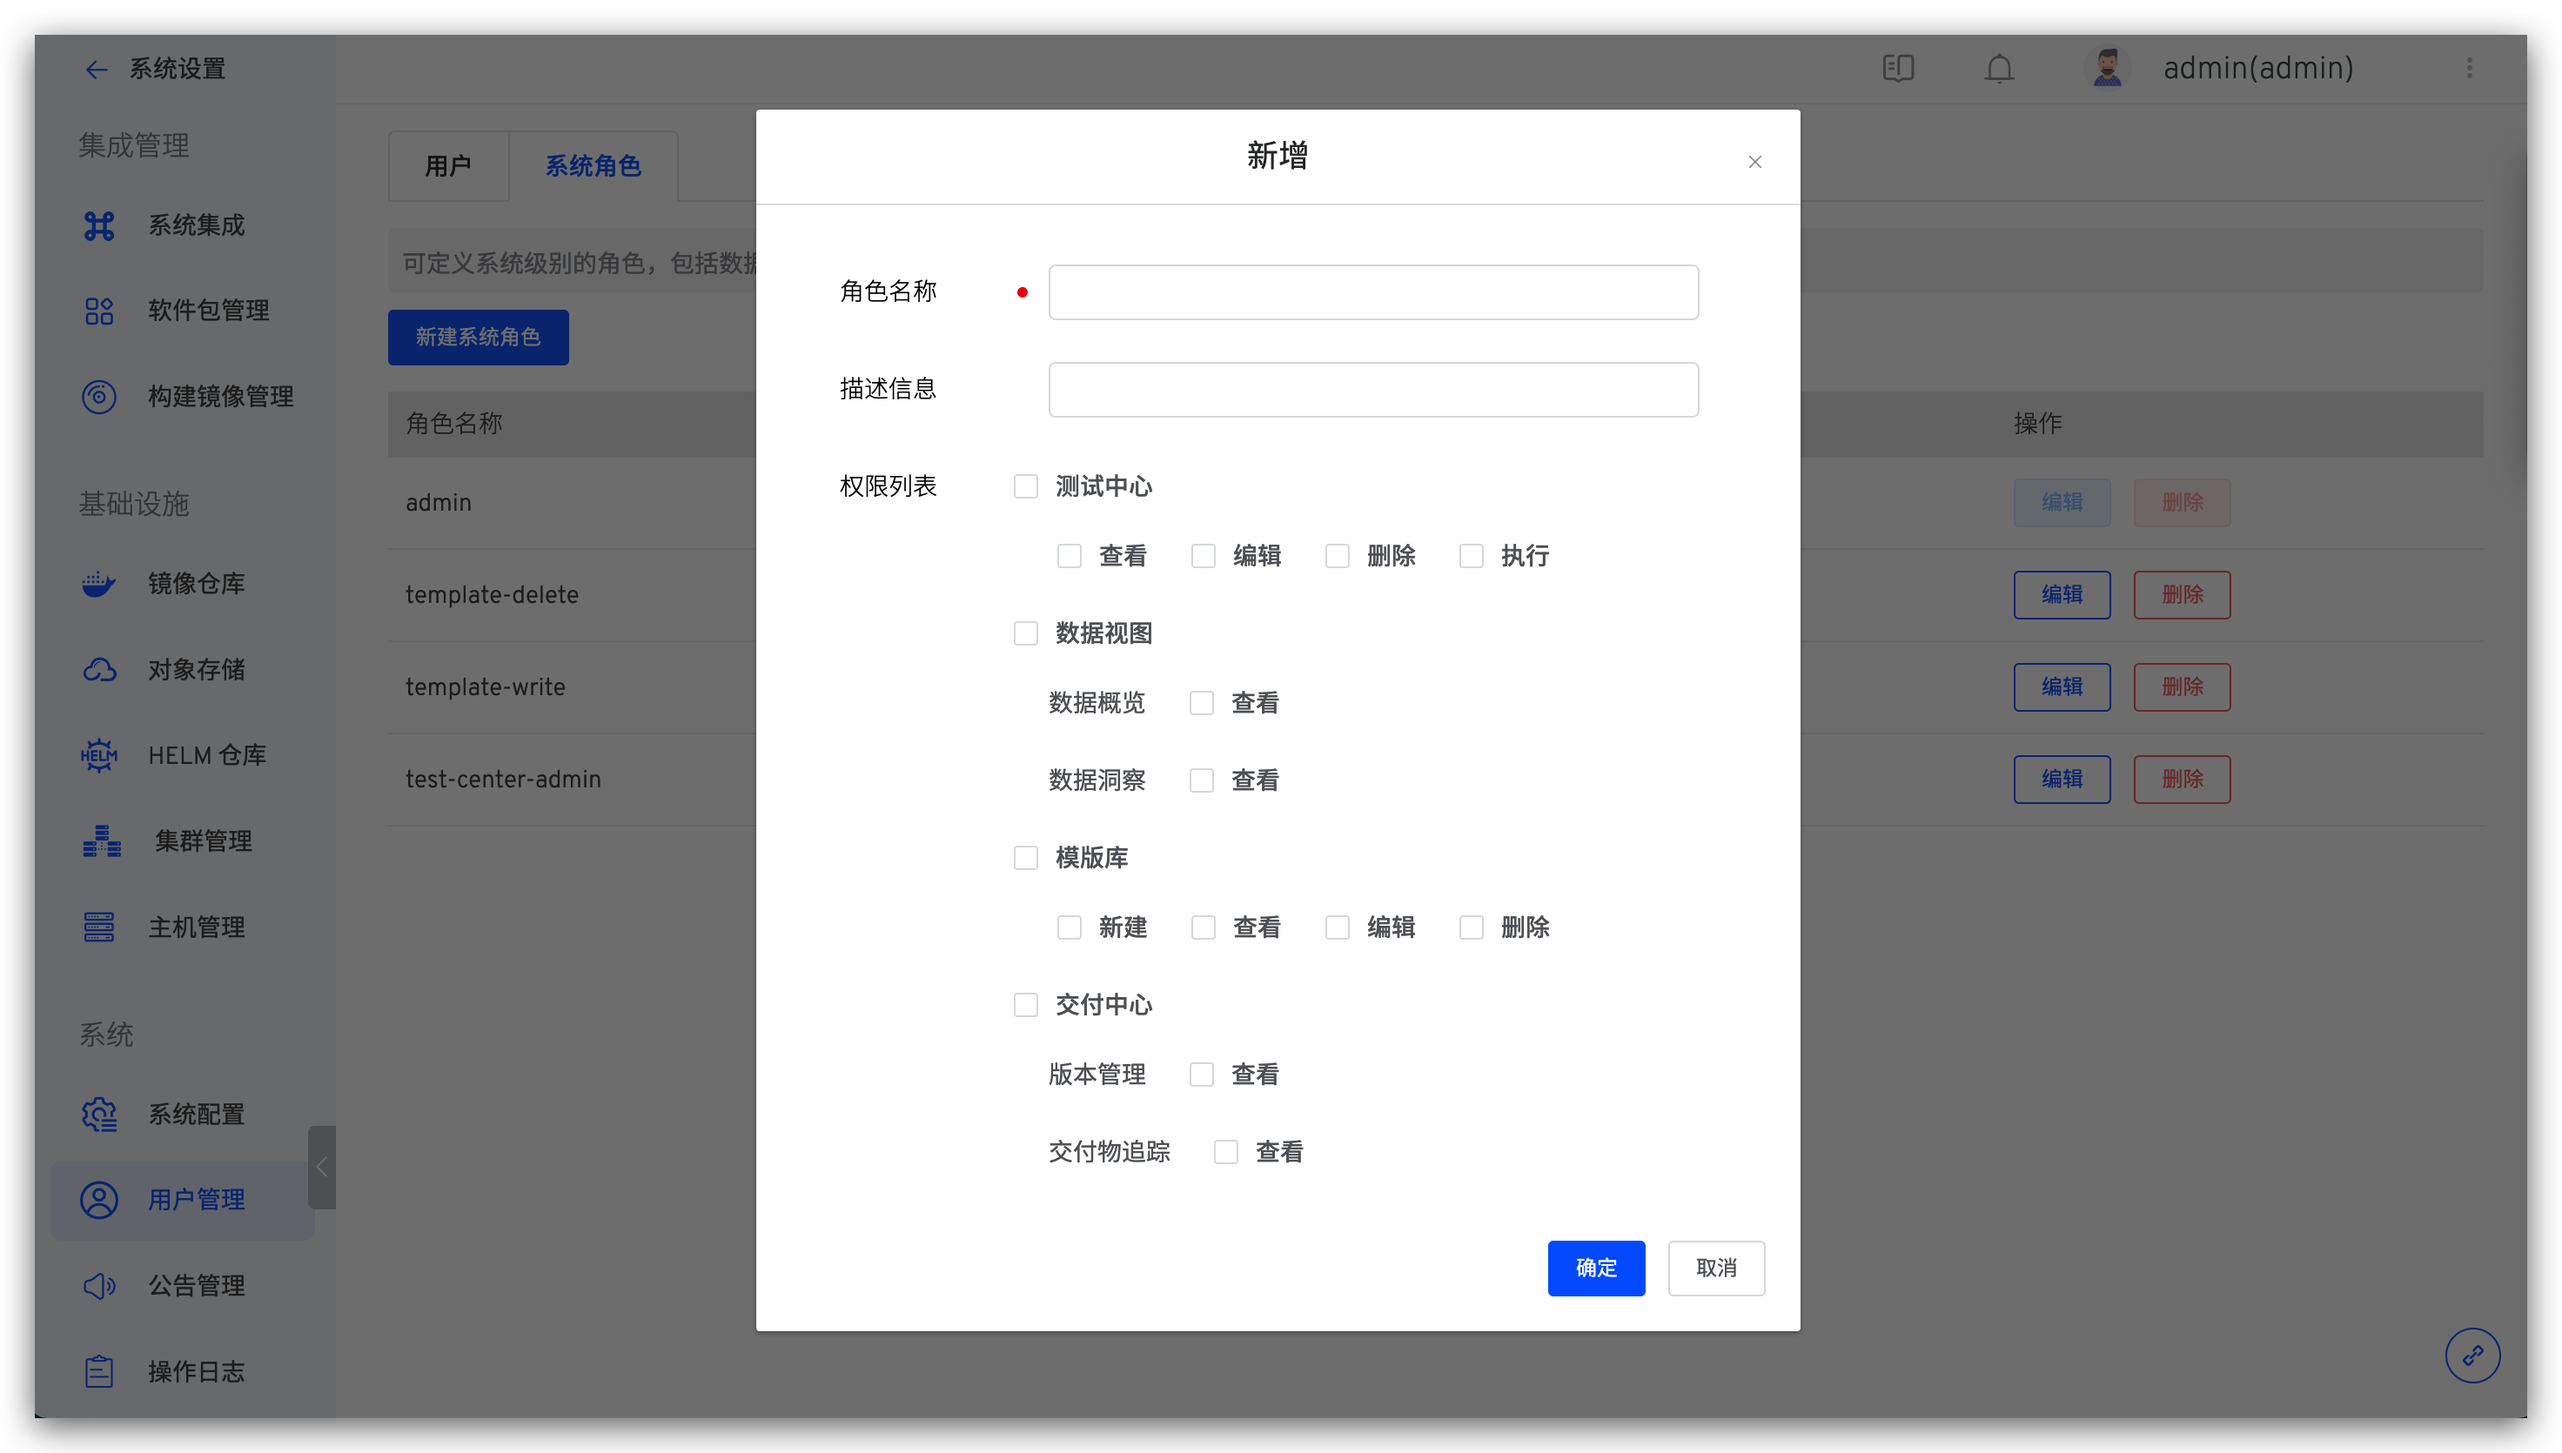
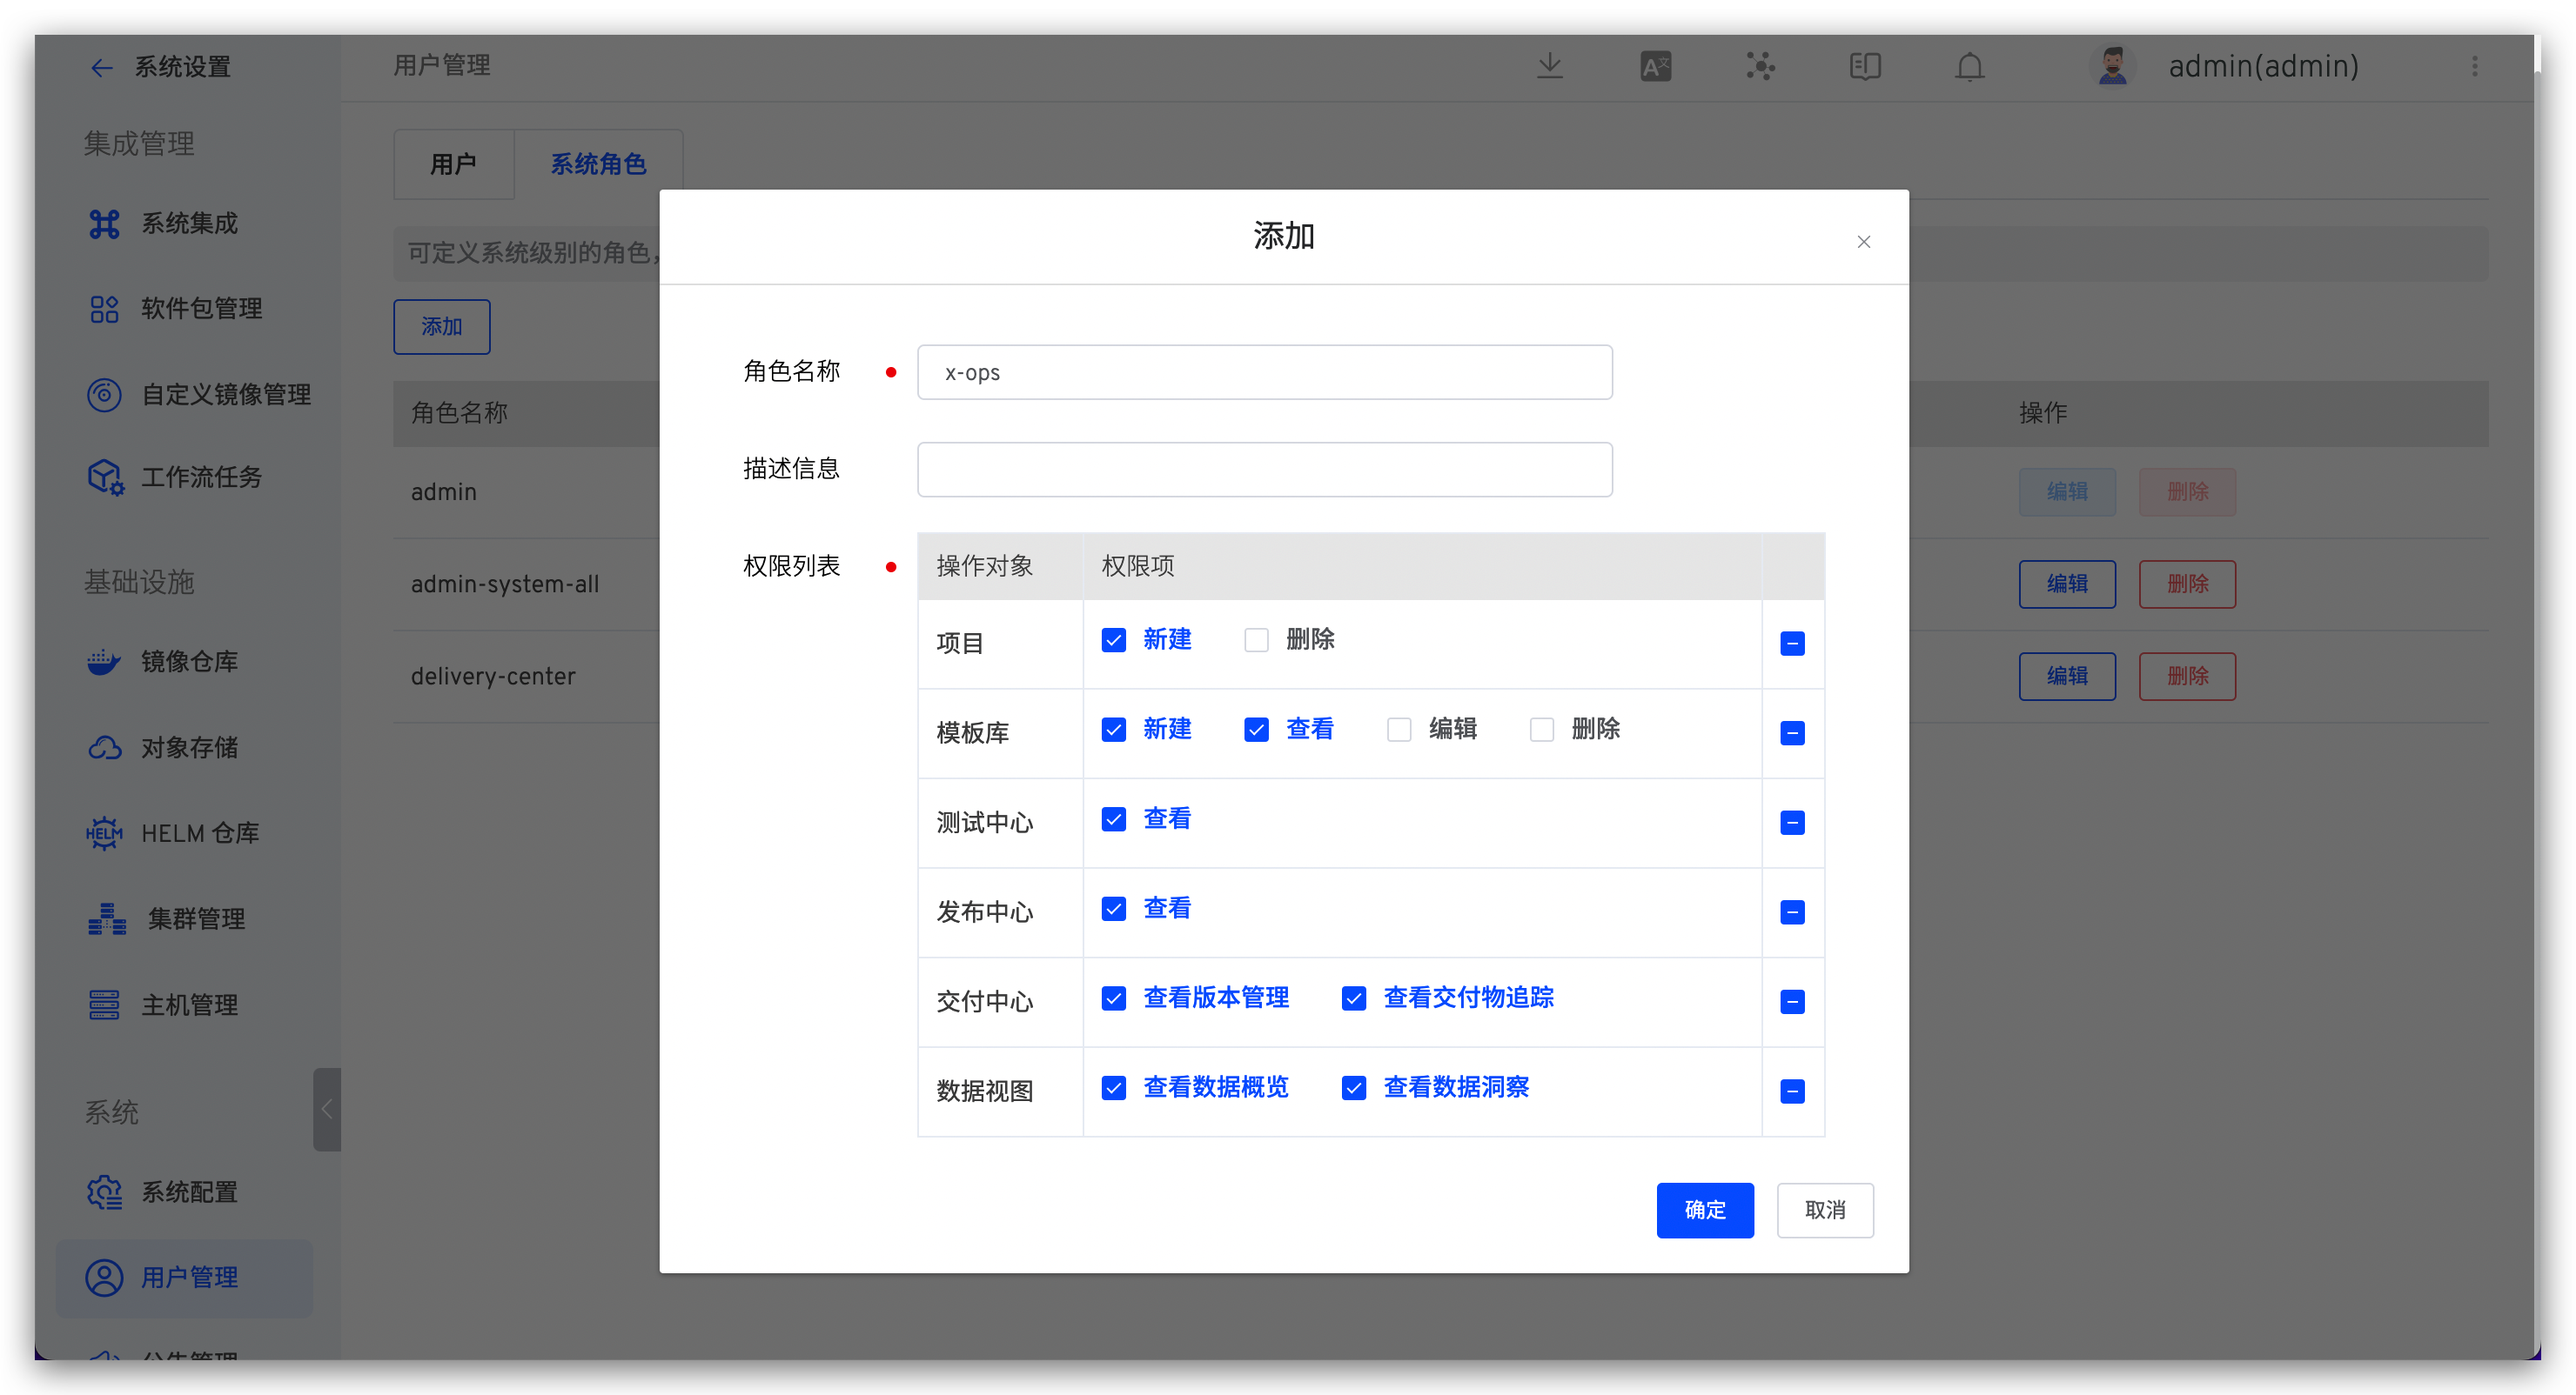
system role update

diff --git a/dev/15.系统设置/27.user_manage.md b/dev/15.系统设置/27.user_manage.md
@@ -29,7 +29,7 @@ permalink: /dev/settings/user-management/
 
 ## 系统角色
 
-定义系统级别的角色，包括数据概览、效能洞察、测试中心、交付中心、模板库模块的权限控制。
+定义系统级别的角色，包括项目资源、模板库、测试中心、发布中心、交付中心、数据视图模块的权限控制。
 
 ### 新建角色
 
